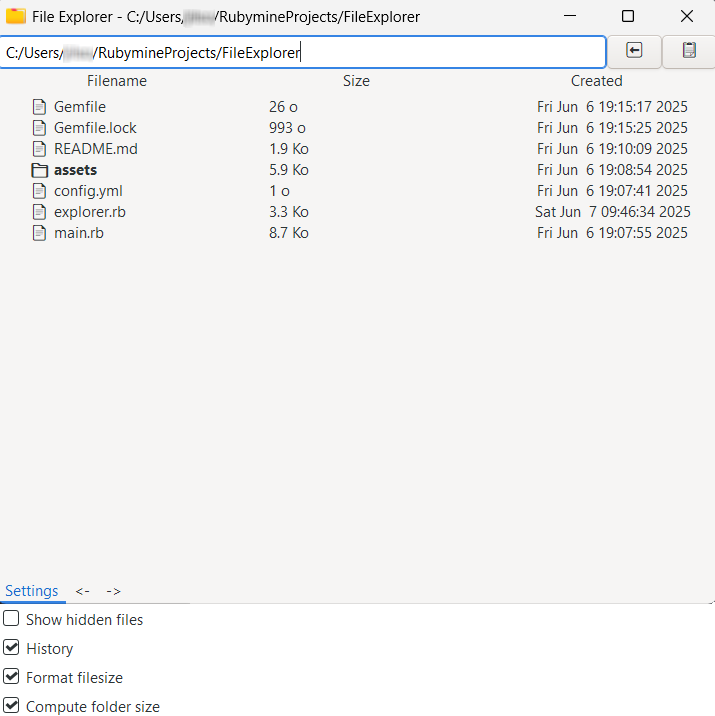
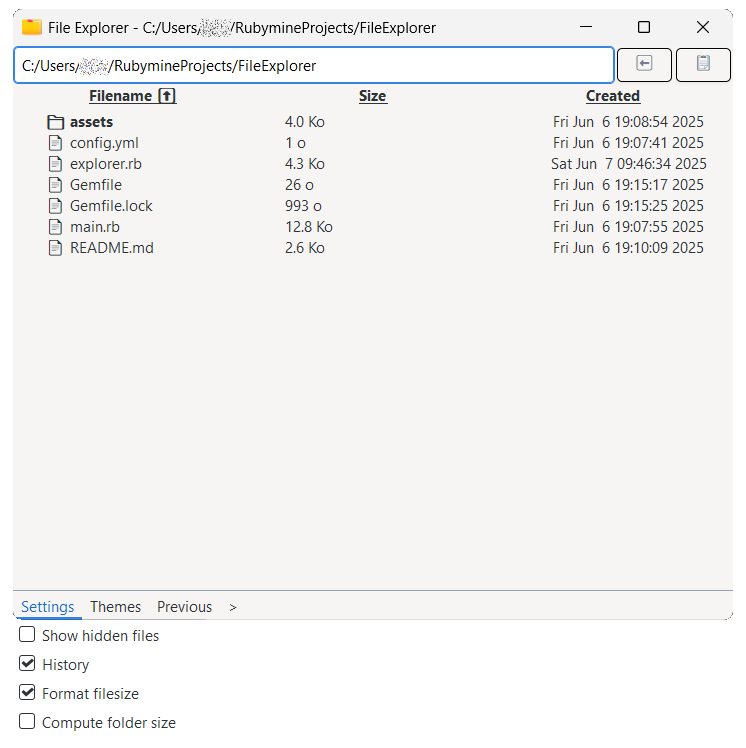
docs: Added preview images

Changed region(s): [[0.0, 0.0, 0.9846, 0.338], [0.0, 0.7989, 0.2769, 1.0], [0.7692, 0.0307, 0.8, 0.0615]]

diff --git a/README.md b/README.md
@@ -44,6 +44,9 @@ ruby main.rb
 Here is the current look of the application:
 ![Software preview](assets/screens/preview-1.png)
 
+![!Theme preview](assets/screens/preview-2.png)
+
+
 ## Features
 
 Here is a list of features that are supported by this application
